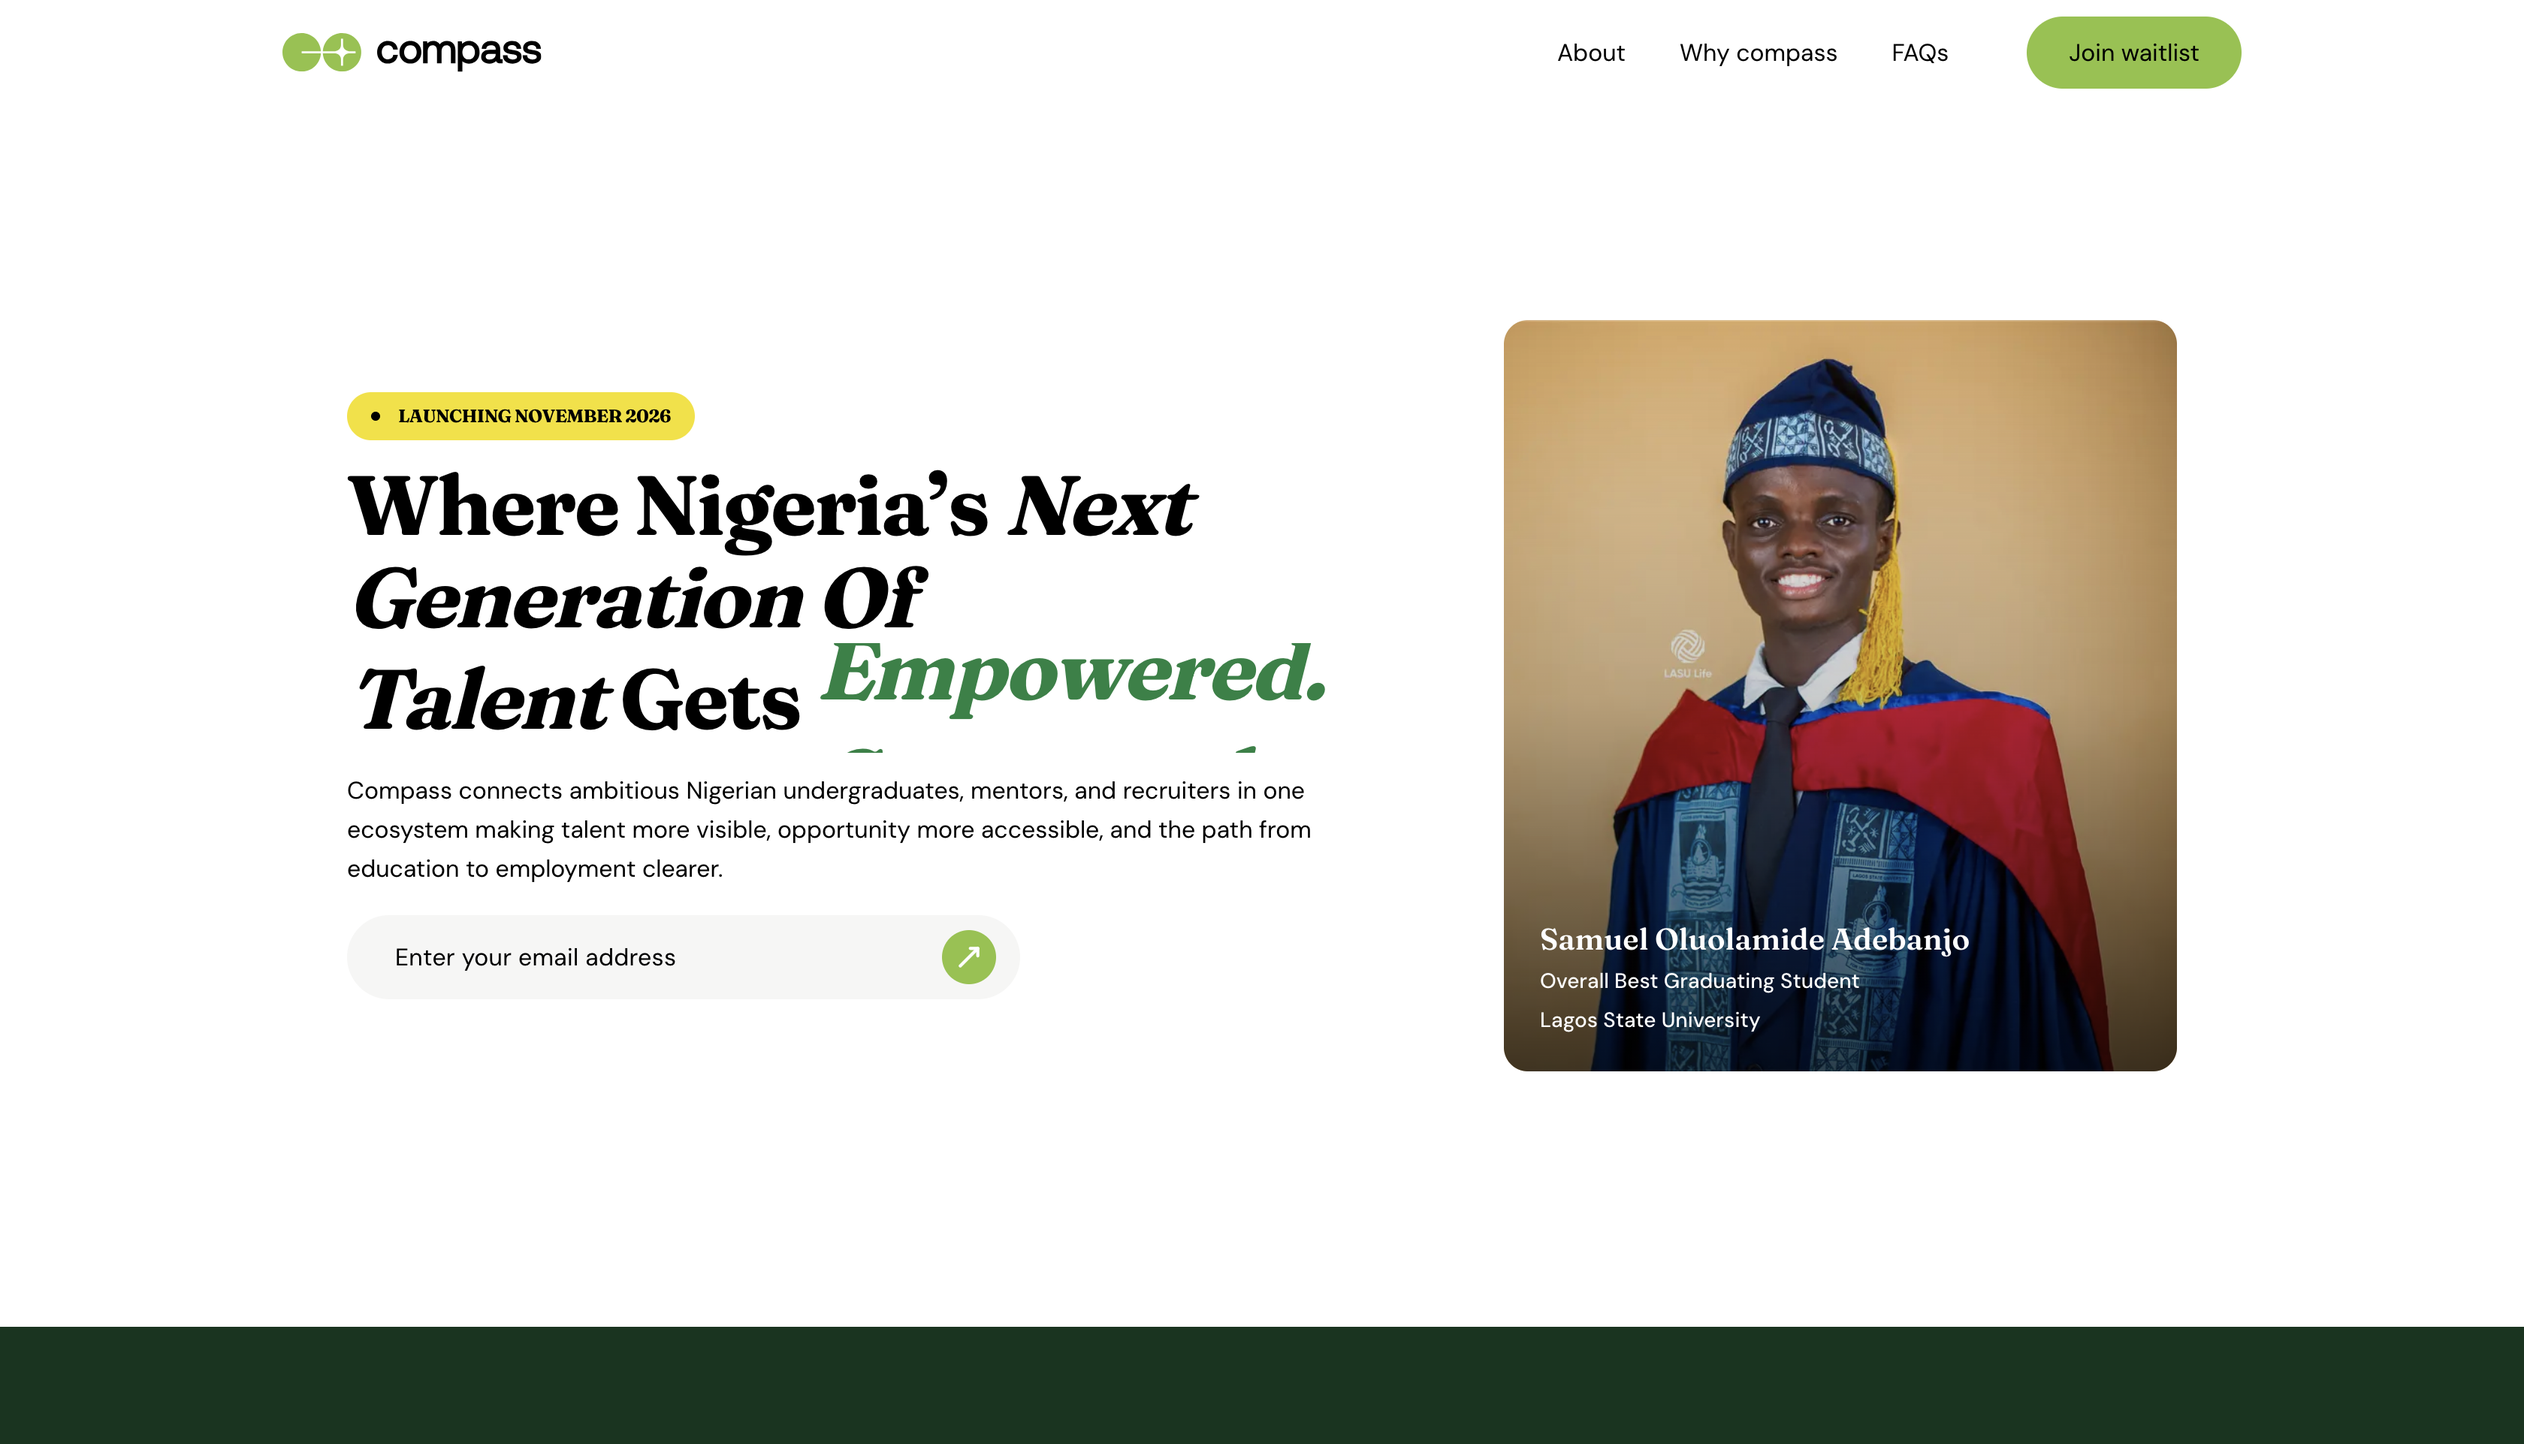
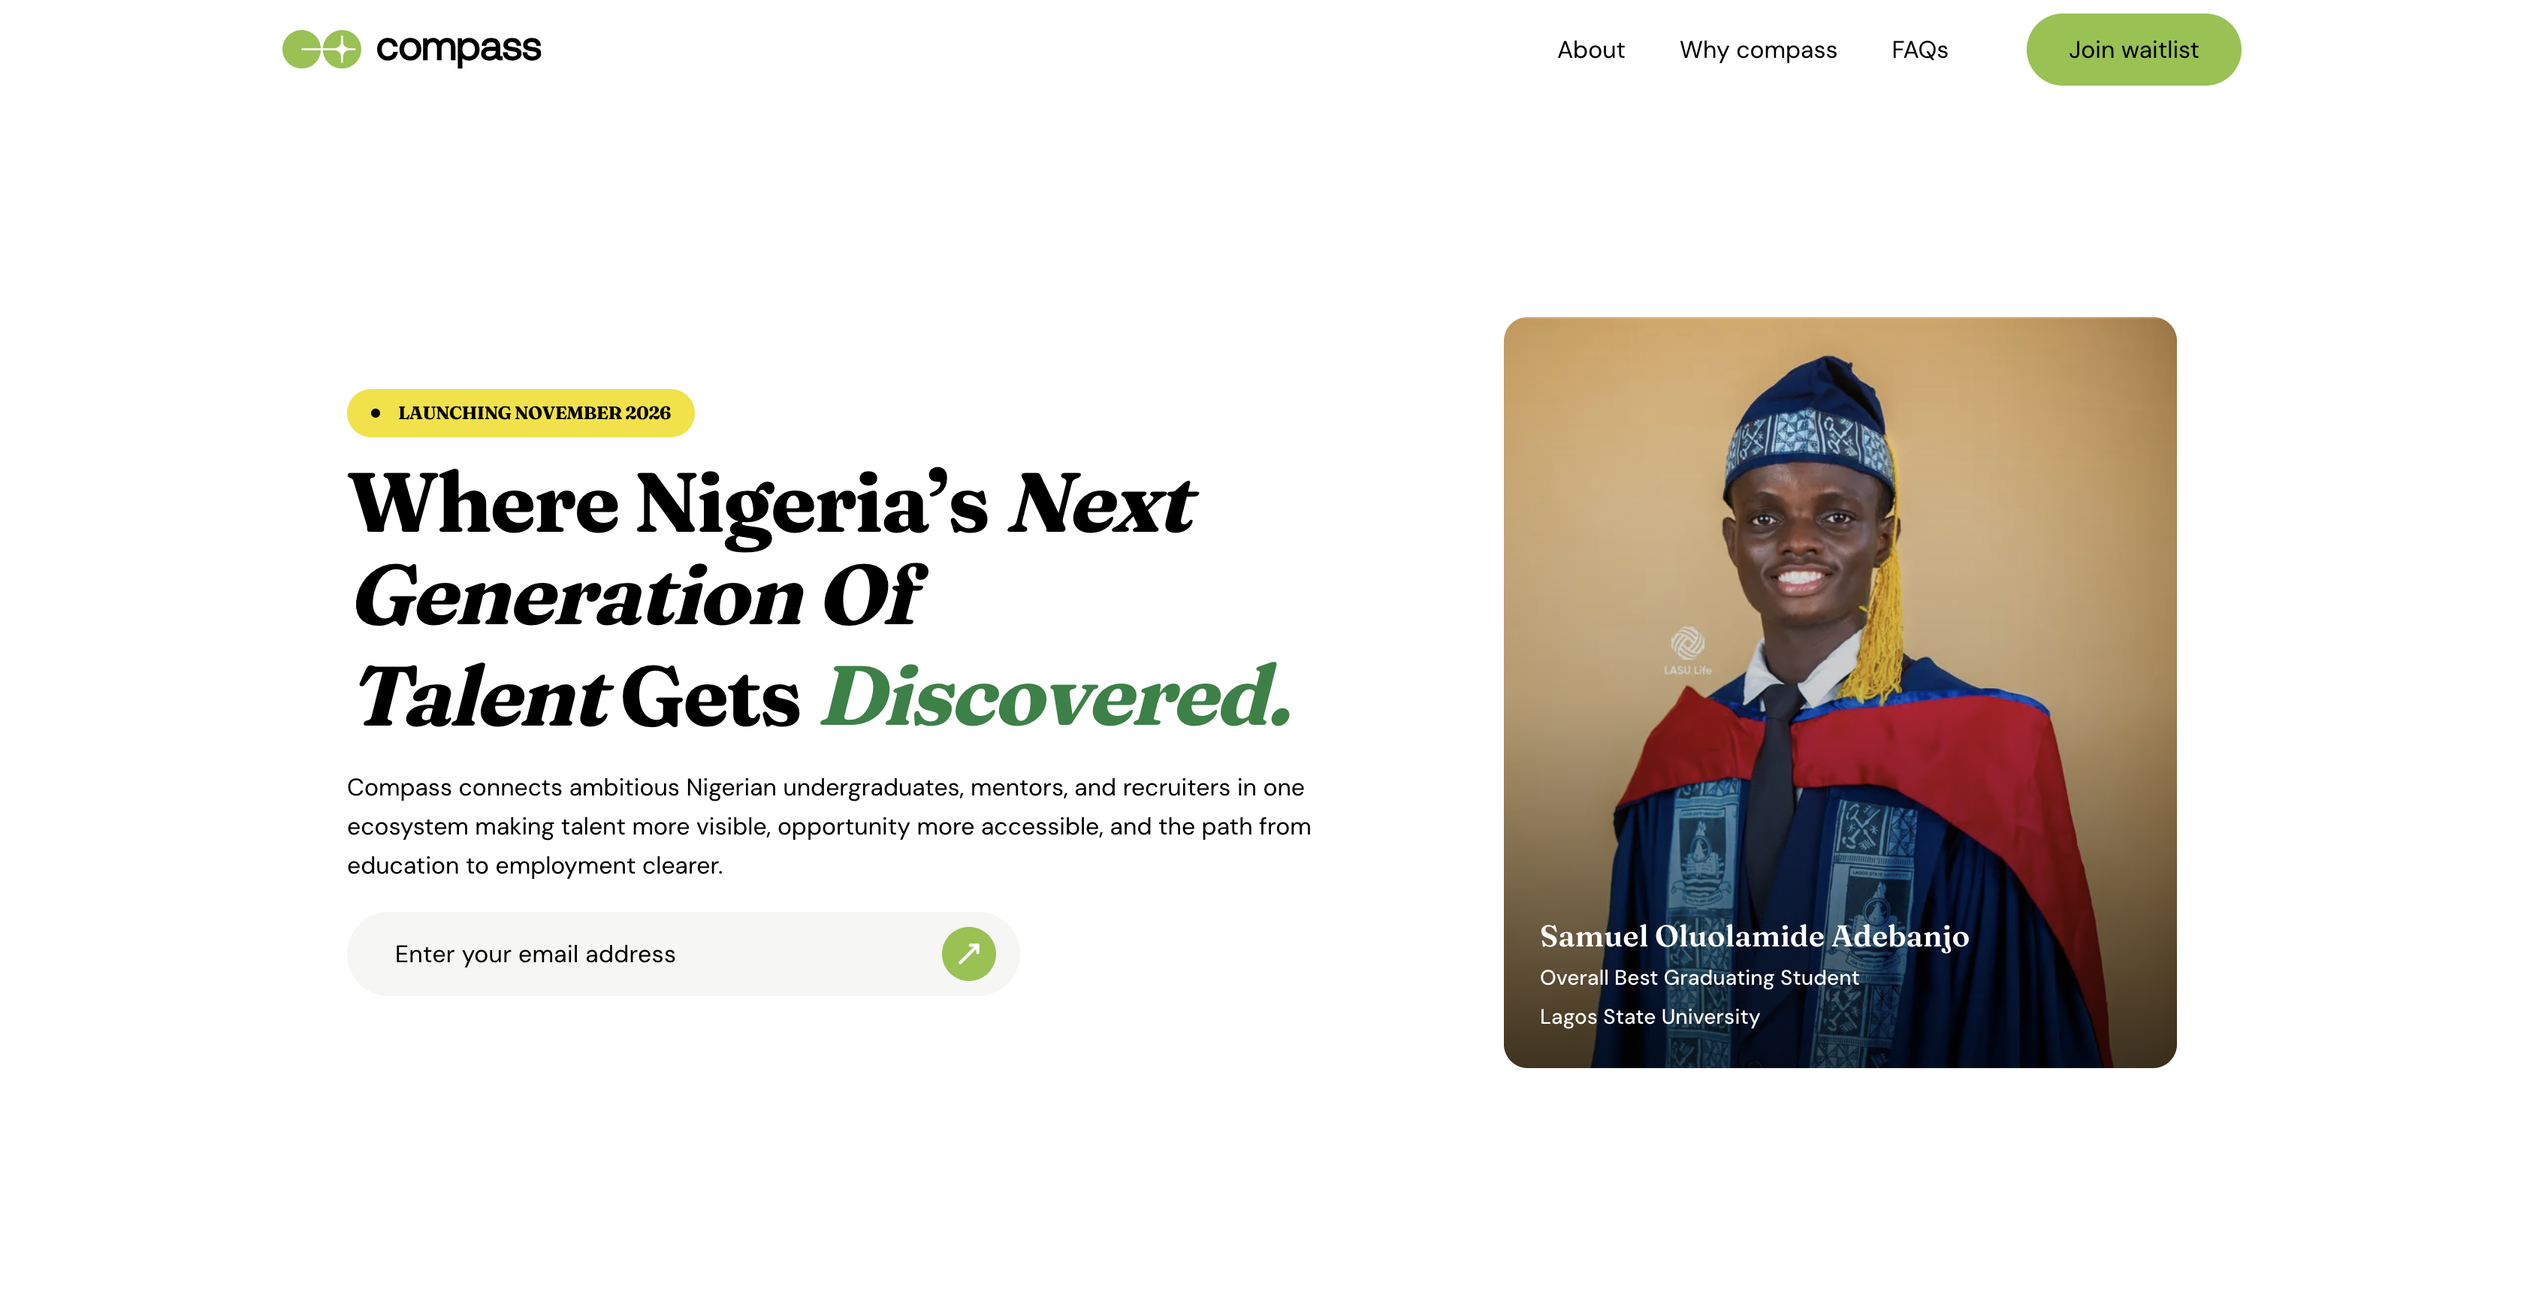
fix project image link

diff --git a/components/Projects.tsx b/components/Projects.tsx
@@ -17,10 +17,10 @@ const projectDetails = [
     url: "https://bin-around-the-bloc.vercel.app/admin/signup",
   },
   {
-    title: "Compass Waitlist",
+    title: "Compass",
     description:
       "A polished, responsive waitlist experience for a career platform connecting Nigerian students, recruiters, and mentors. Built with a focus on clear product communication, UI quality, and SEO.",
-    thumbnail: "./compass.png",
+    thumbnail: "/compass.png",
     url: "https://www.mycompasscareer.com/",
     // url: "https://compass-landing-page-production.up.railway.app/",
   },
